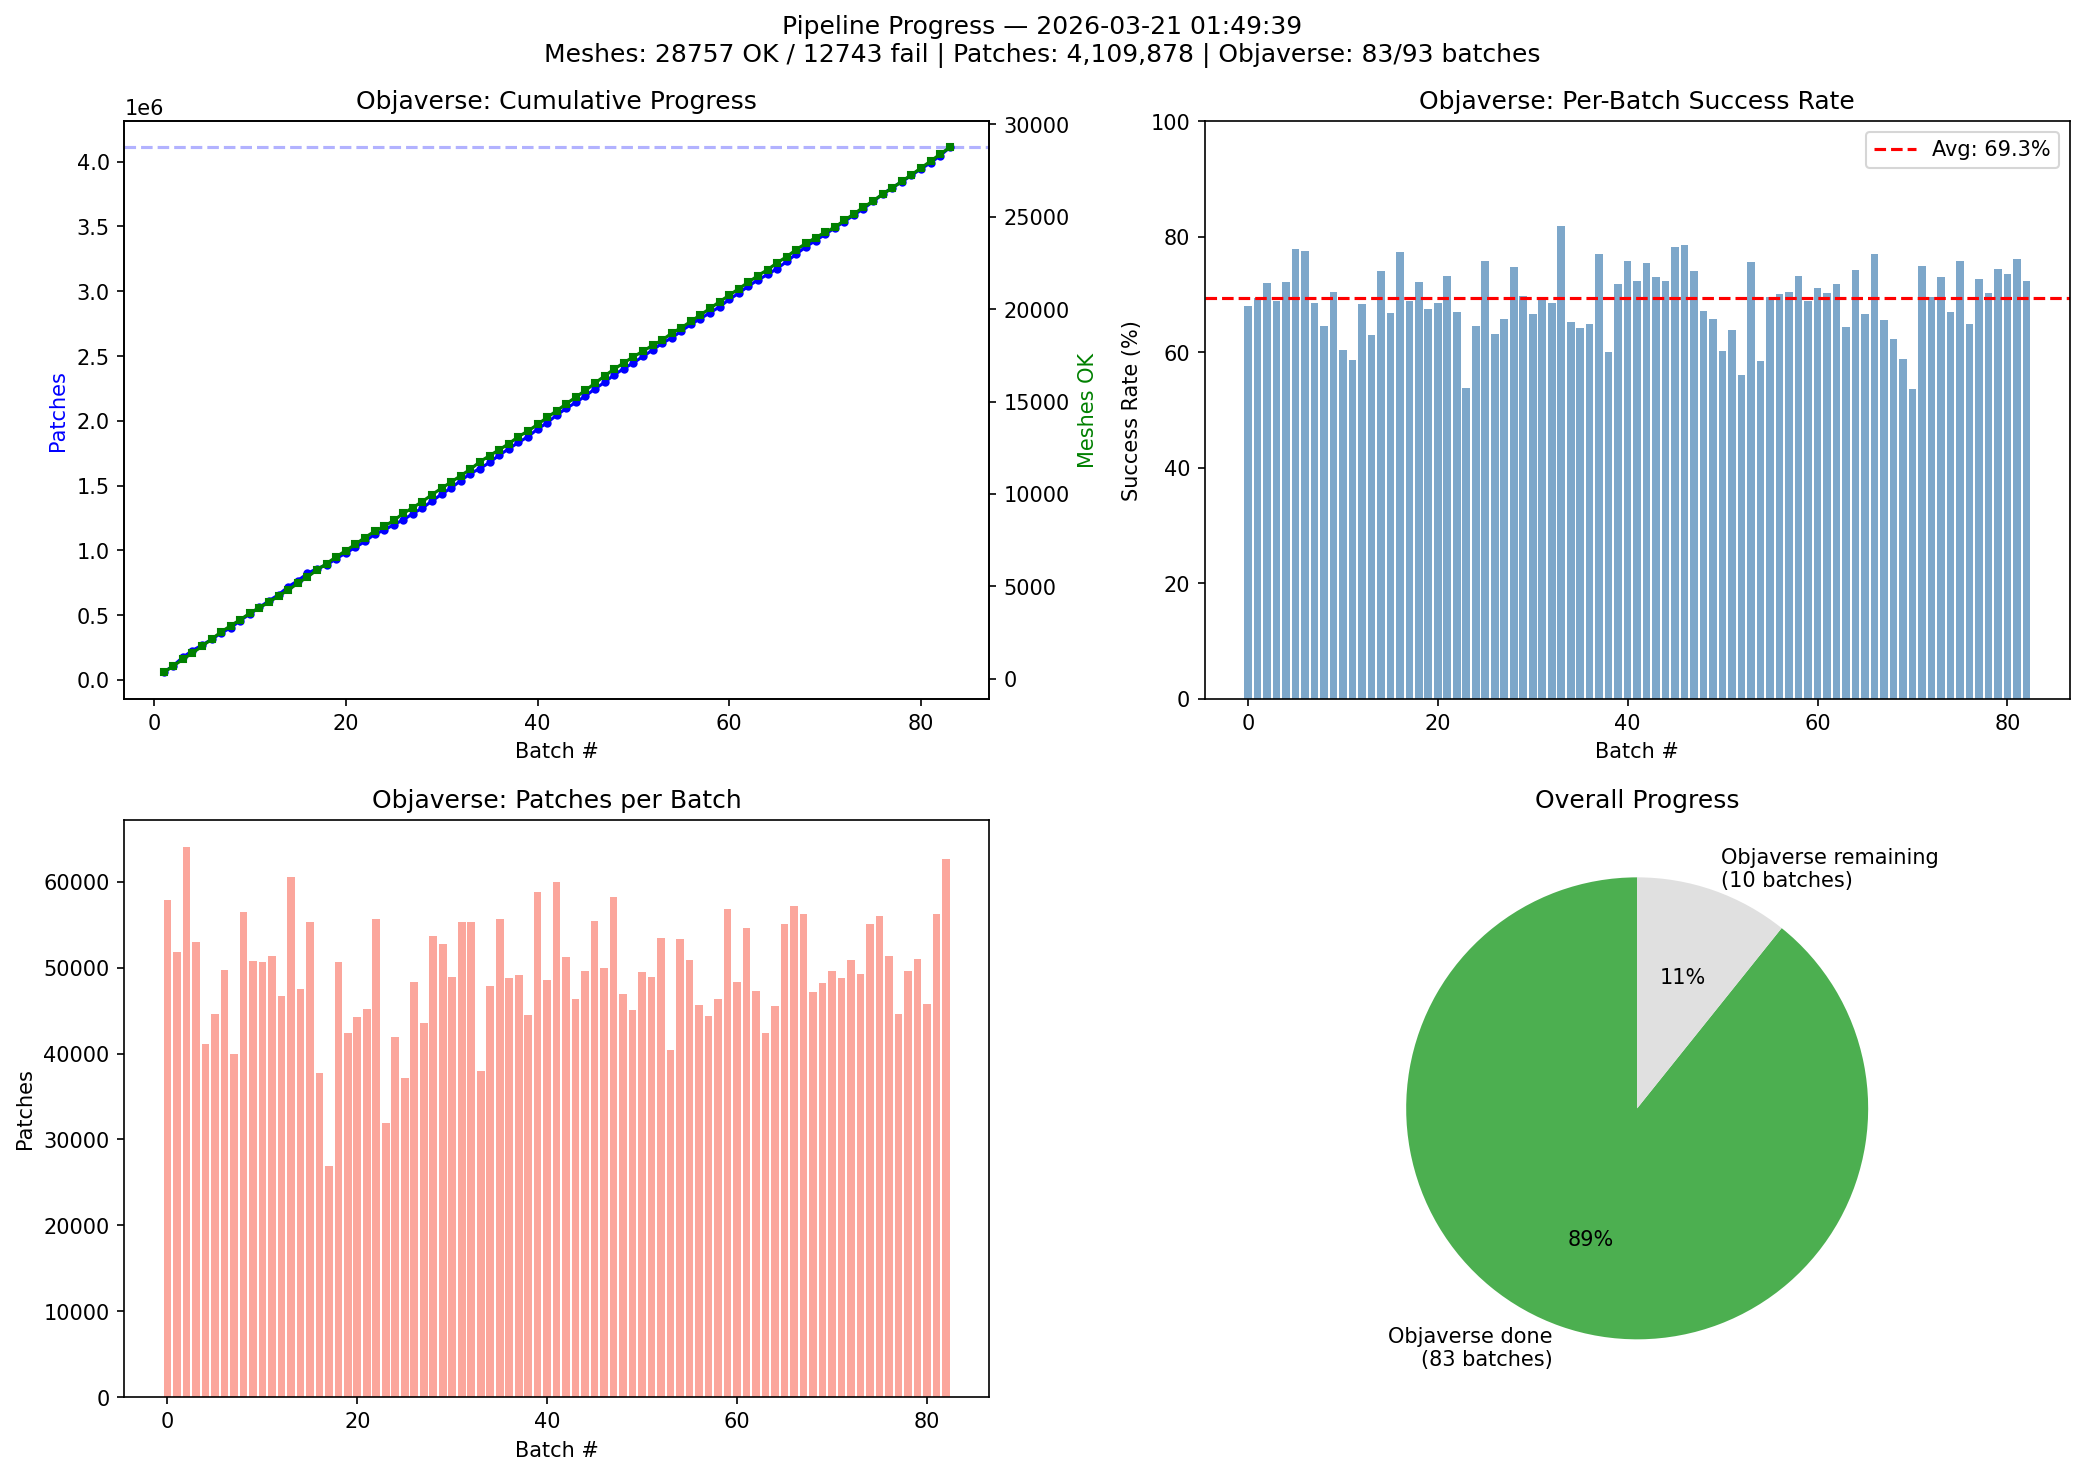
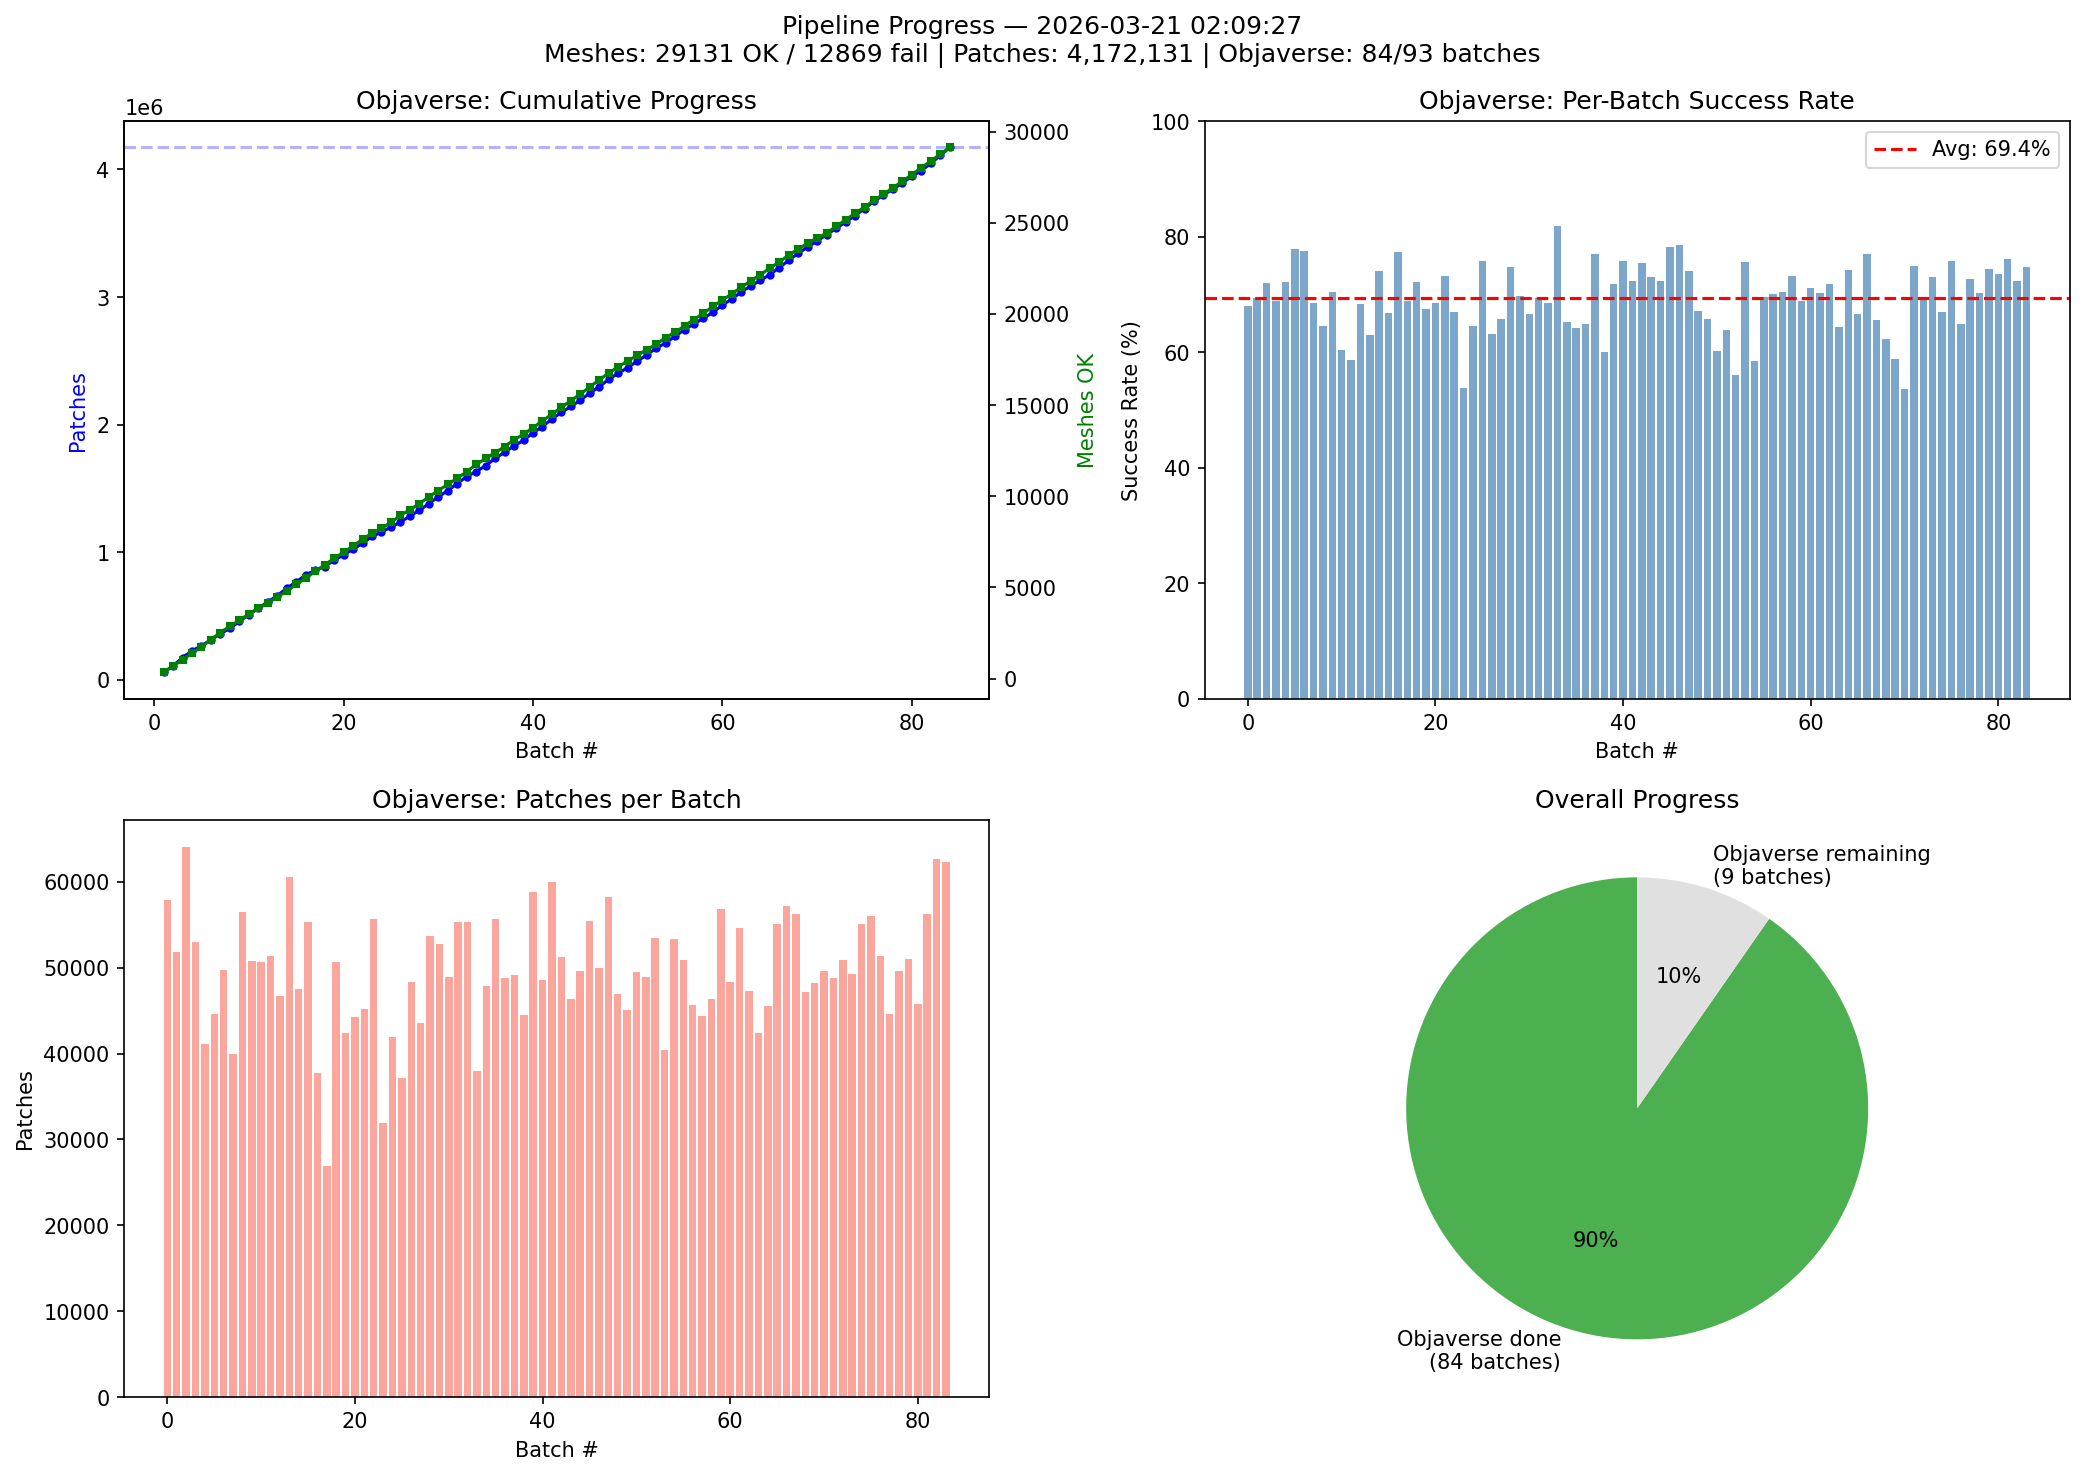
chore: update pipeline monitoring (batch_084 completed)
- Objaverse: 84/93 batches, 29131 OK / 12869 fail
- Patches: 4,172,131

diff --git a/results/dataset-pipeline/REPORT.md b/results/dataset-pipeline/REPORT.md
@@ -1,17 +1,17 @@
 # Dataset Pipeline Progress Report
 
-**Generated:** 2026-03-21 01:49:39
+**Generated:** 2026-03-21 02:09:27
 
 ## Overall
-- Total meshes processed: 28757 OK / 12743 fail
-- Total patches: 4,109,878
+- Total meshes processed: 29131 OK / 12869 fail
+- Total patches: 4,172,131
 
 ## Objaverse-LVIS (Phase 1)
-- Batches: 83 / 93 completed
-- Meshes: 28757 OK / 12743 fail
-- Success rate: 69.3%
-- Patches: 4,109,878
-- Avg patches/mesh: 142.9
+- Batches: 84 / 93 completed
+- Meshes: 29131 OK / 12869 fail
+- Success rate: 69.4%
+- Patches: 4,172,131
+- Avg patches/mesh: 143.2
 
 ## ShapeNet (Phase 2)
 - Batches: 0 completed
@@ -21,5 +21,5 @@
 
 ## Disk Usage
 - Total: 80GB
-- Used: 17GB
-- Free: 62GB
+- Used: 16GB
+- Free: 63GB
